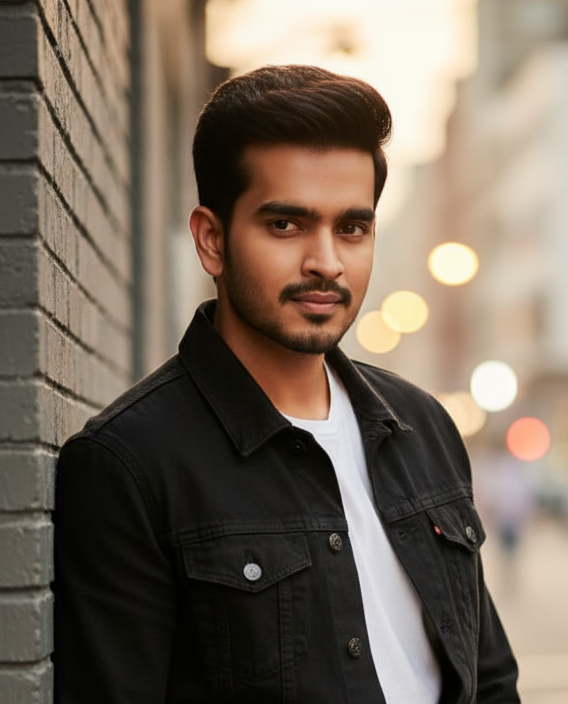
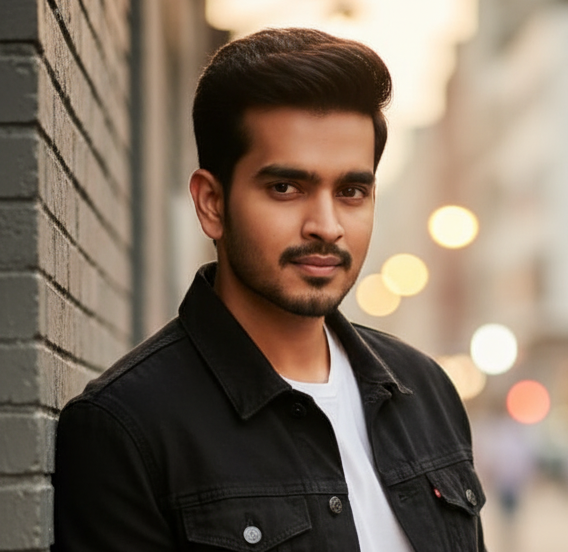
new commit

diff --git a/src/component/Collections.jsx b/src/component/Collections.jsx
@@ -2,7 +2,7 @@ import collections from "./Assets/collection";
 
 export default function Collections() {
   return (
-    <section className="h-screen px-5 py-5 max-w-[1200px] relative left-1 " id="trending">
+    <section className="px-5 py-5 max-w-[1200px] mx-auto relative left-1 " id="trending">
       <div className="mb-2">
         <h2 className="text-3xl font-bold mb-4 text-[var(--heading-color)] italic">
           Trending Collections
@@ -21,7 +21,9 @@ export default function Collections() {
             <img
               src={item.image}
               alt={item.title}
-              className="h-64 w-full object-cover transform group-hover:scale-110 transition duration-500"
+              decoding="async"
+              loading="lazy"
+              className="h-100 w-full object-cover transform group-hover:scale-110 transition duration-500"
             />
 
             <div className="absolute inset-0 bg-black/40 flex flex-col justify-end p-4">

diff --git a/src/component/Assets/collection.js b/src/component/Assets/collection.js
@@ -4,7 +4,7 @@ import collection_3 from "./collection_3.png";
 import collection_4 from "./collection_4.png";
 import collection_5 from "./collection_5.png";
 import collection_6 from "./collection_6.jpg";
-import collection_7 from "./collection_7.jpg";
+import collection_7 from "./collection_7.png";
 import collection_8 from "./collection_8.jpg";
 
 
@@ -47,8 +47,8 @@ const collections = [
   },
   {
     id: 7,
-    title: "Footwear",
-    description: "Step into comfort",
+    title: "Fashion",
+    description: "Make your style statement",
     image: collection_7,
   },
    {

diff --git a/src/component/Navbar.jsx b/src/component/Navbar.jsx
@@ -64,7 +64,7 @@ const Navbar = () => {
                 spy={true}
                 smooth={true}
                 offset={-70}
-                duration={500}
+                duration={400}
                 activeClass="!text-[var(--heading-color)] border-b-2 border-[var(--heading-color)]"
                 className="cursor-pointer hover:text-[var(--heading-color)] transition-colors py-1"
               >
